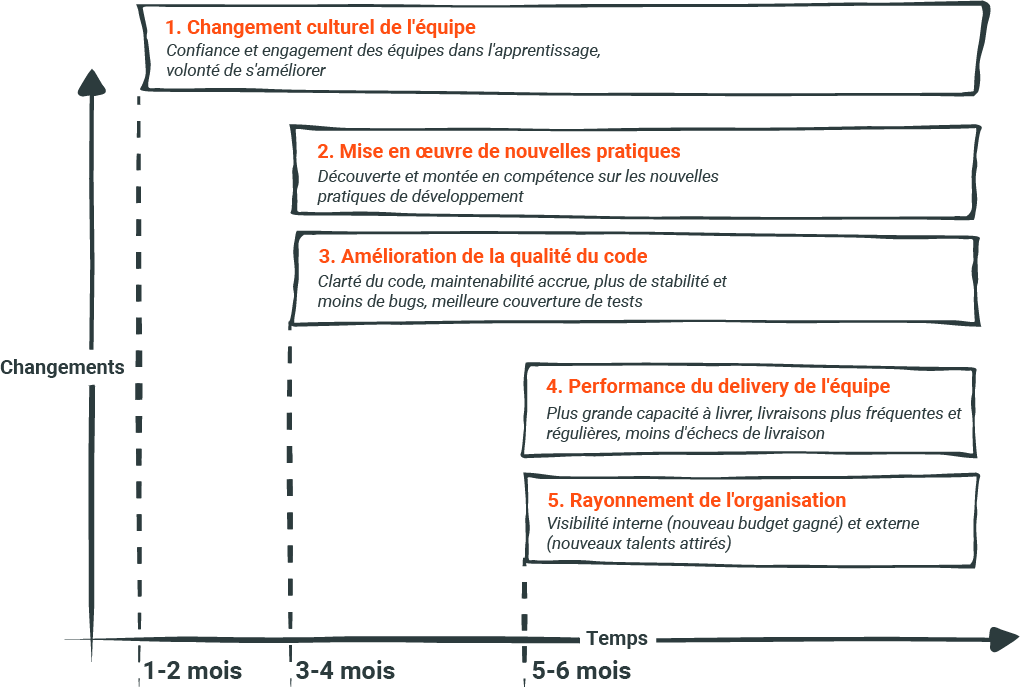
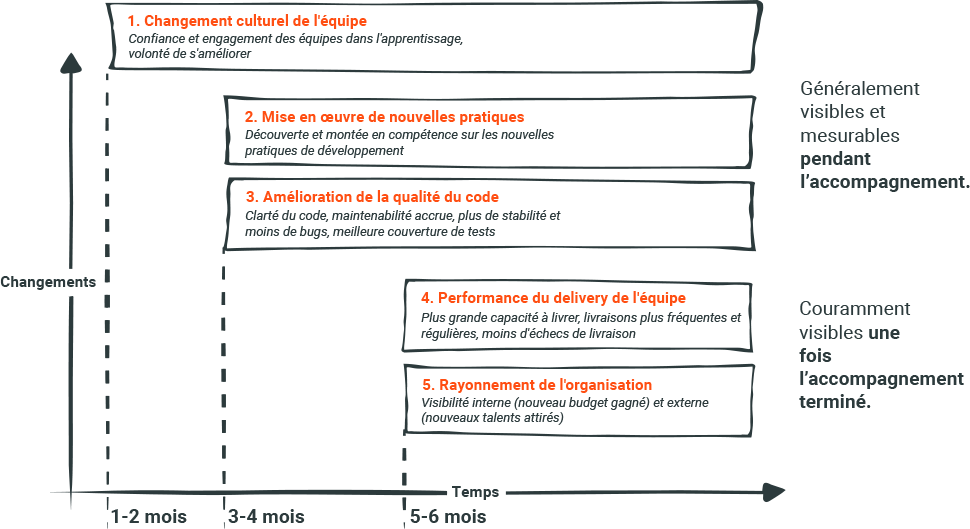
Add comments in results image on offer page

diff --git a/content/english/offer/_index.md b/content/english/offer/_index.md
@@ -117,10 +117,7 @@ results:
 
   statement:
     description: "It is measured **during and after** technical coaching accompaniment"
-    image: "images/offer/results_fr.png"
-    comments:
-      - label: "Usually visible and measurable **during accompaniment**."
-      - label: "Commonly visible **once the accompaniment is finished**."
+    image: "images/offer/results_fr.png" 
     note: "Accompaniment lasts between 6 months and 1 year depending on the scope of intervention."
 
 

diff --git a/content/french/offer/_index.md b/content/french/offer/_index.md
@@ -118,9 +118,6 @@ results:
   statement:
     description: "Ils se mesurent **pendant et après** l'accompagnement de coaching technique"
     image: "images/offer/results_fr.png"
-    comments:
-      - label: "Généralement visibles et mesurables **pendant l'accompagnement**."
-      - label: "Couramment visibles **une fois l'accompagnement terminé**."
     note: "Un accompagnement dure entre 6 mois et 1 an selon le périmètre d'intervention."
 
 
